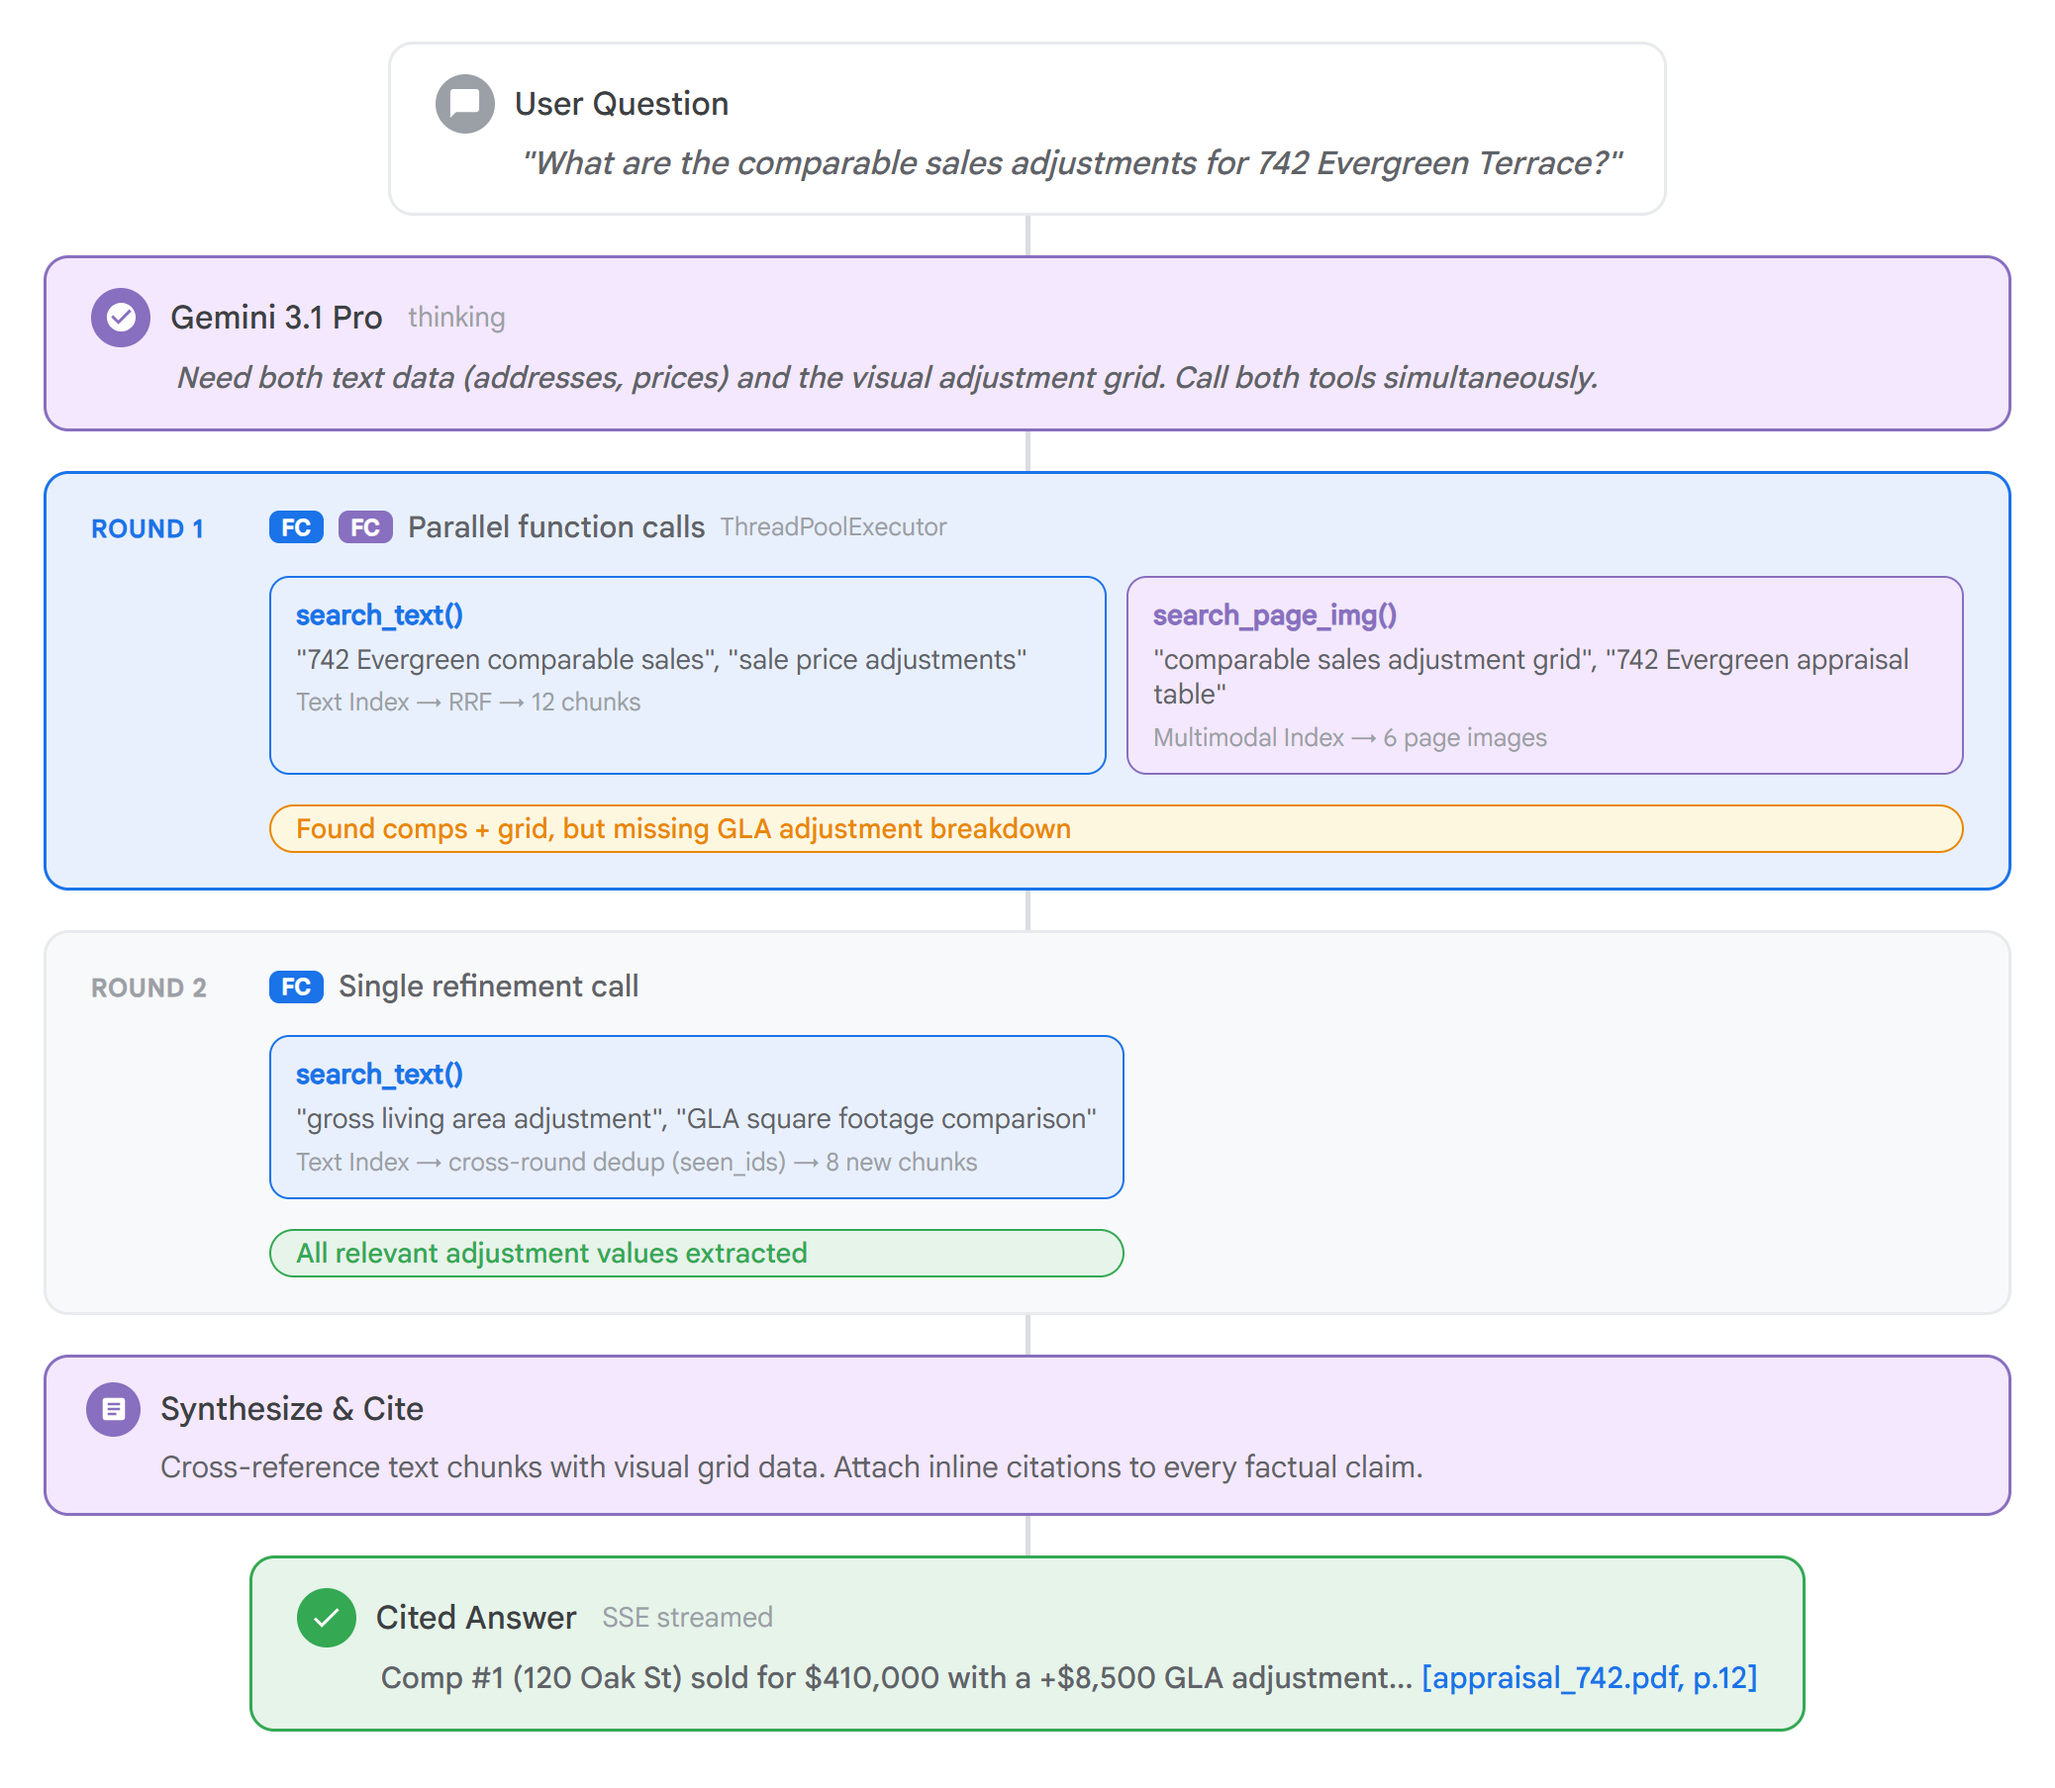
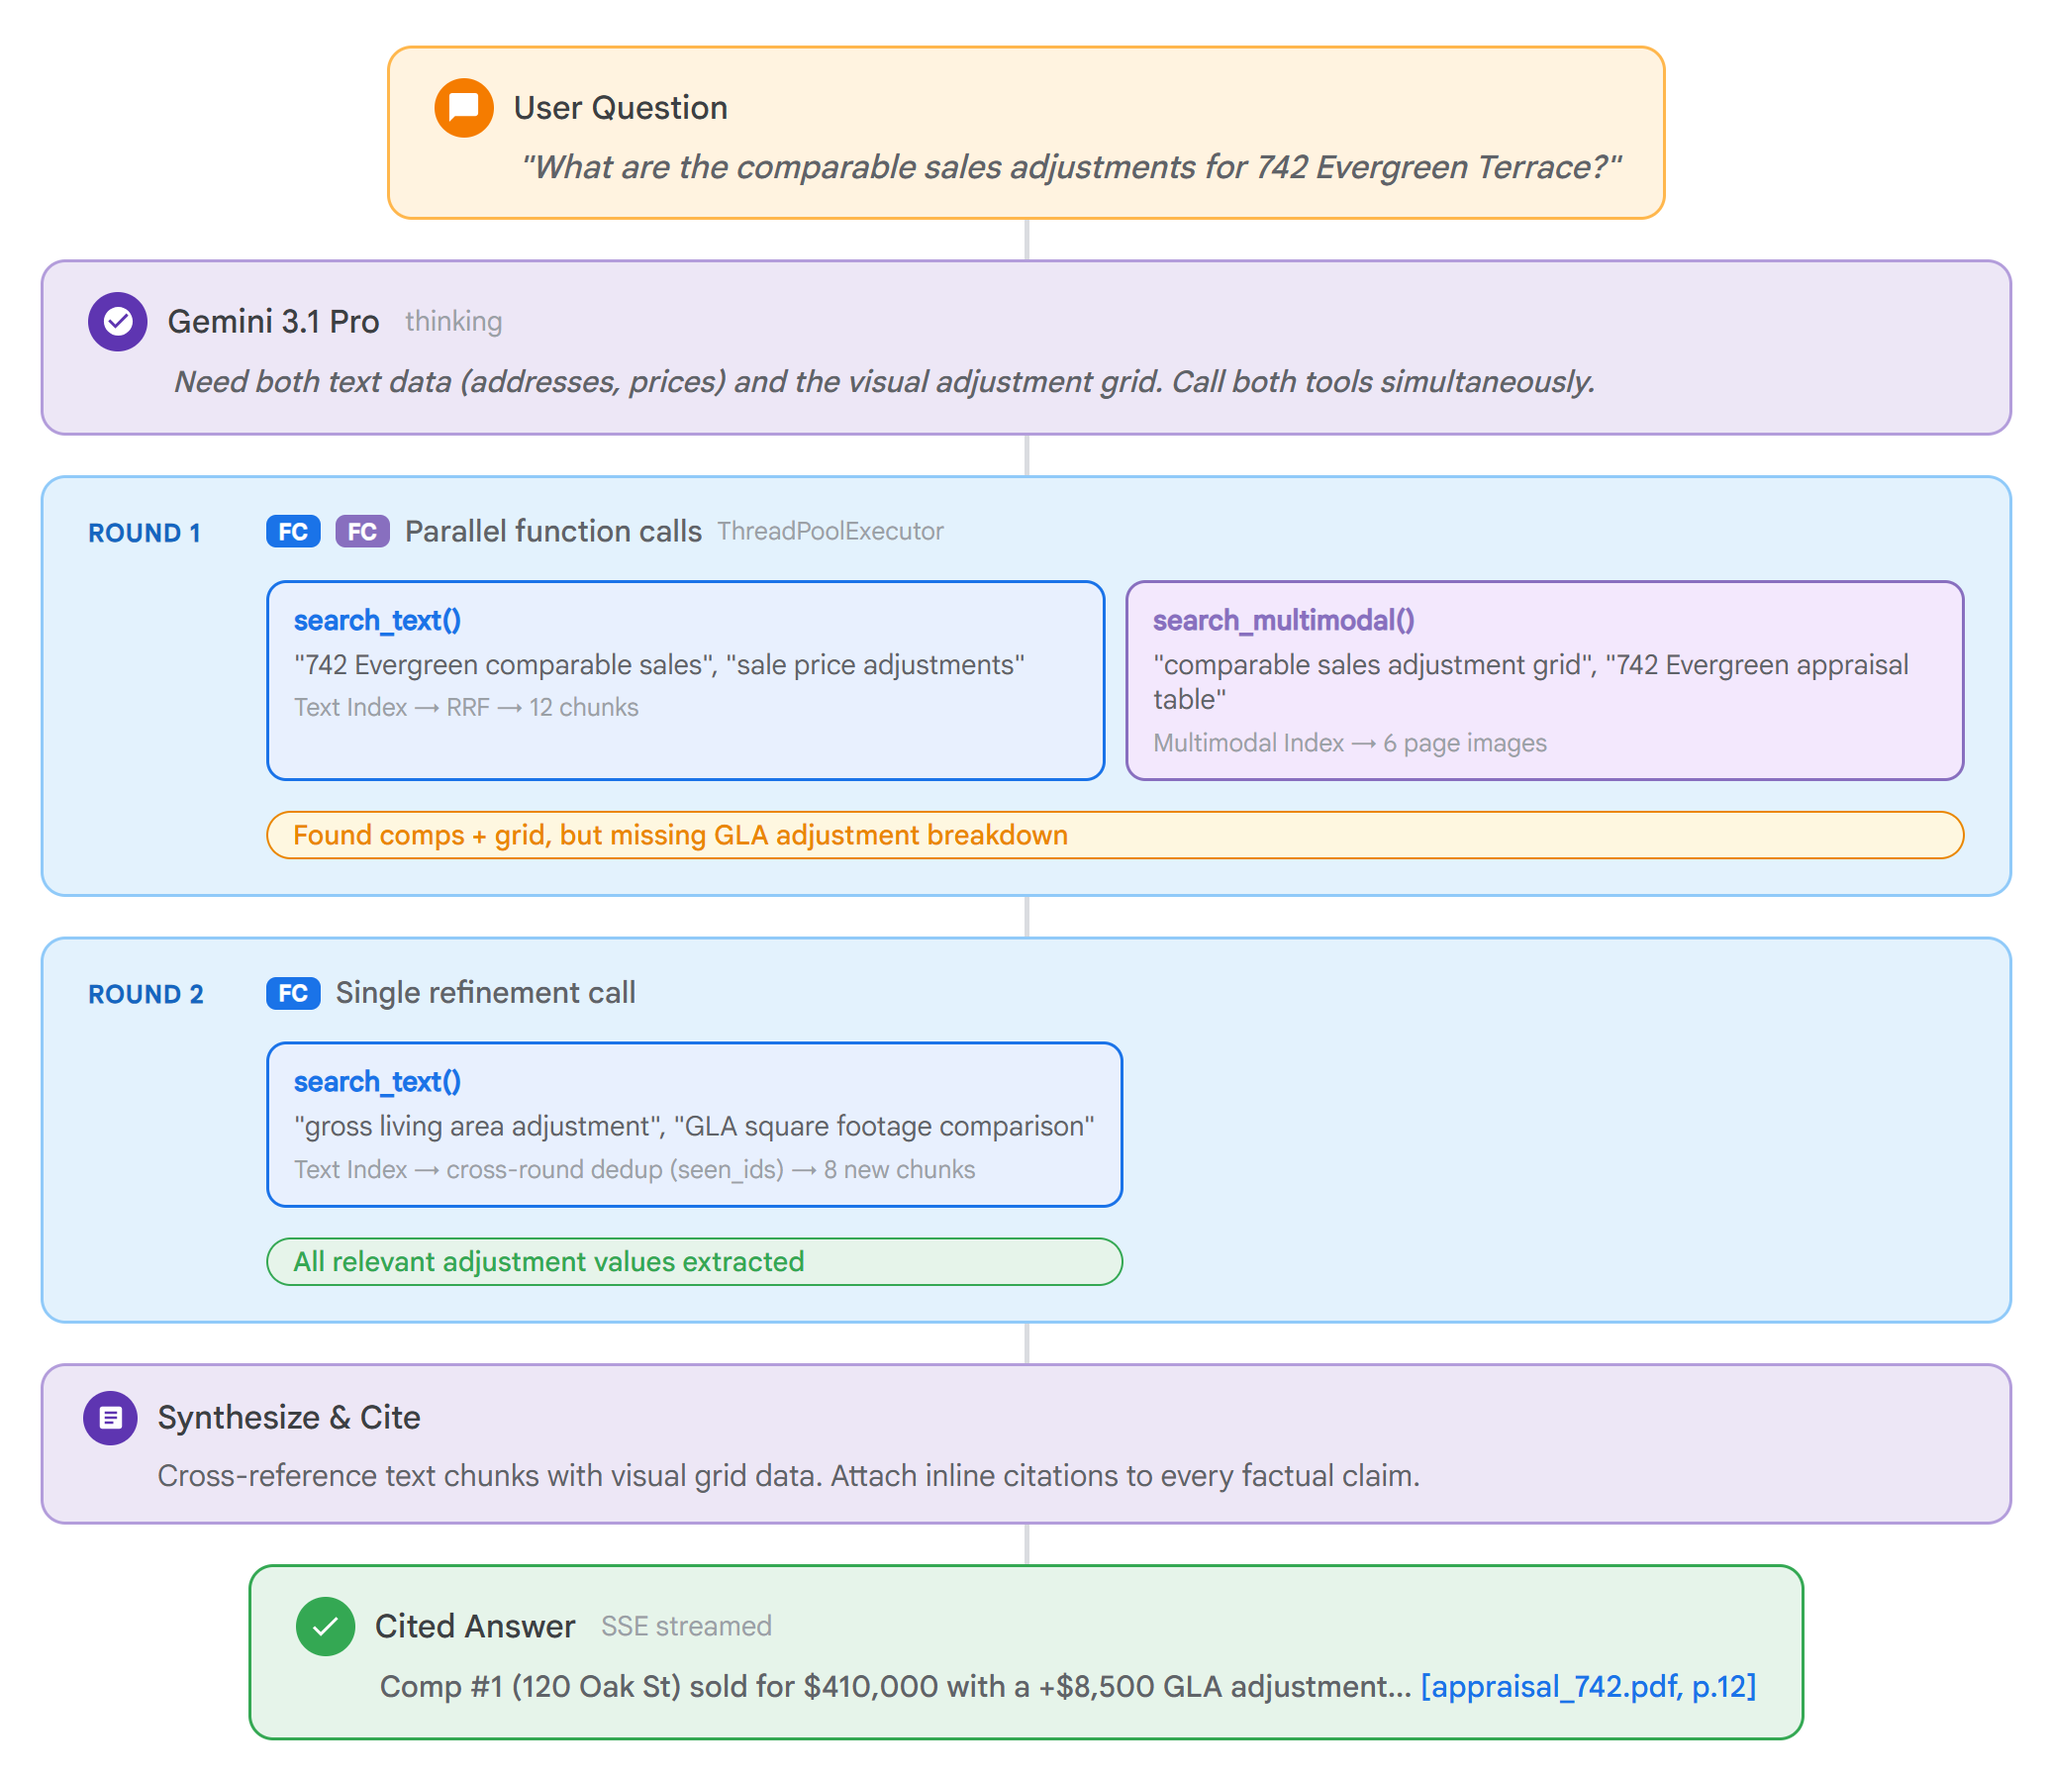
Parallelize signed URL generation and reduce model latency
- Parallelize signed URL generation in text_search, visual_search, and server enrich_citations
- Reduce thinking_level from medium to low for faster response generation
- Reduce default neighbor_count from 15 to 10 for text search
- Add blob.exists() check in pipeline trigger to skip stale GCS notifications
- Move statusDiv hide to finally block in frontend

Changed region(s): [[0.0, 0.0, 0.9889, 0.9972], [0.0, 0.4674, 0.0309, 0.4986]]

diff --git a/frontend/index.html b/frontend/index.html
@@ -1035,6 +1035,7 @@ async function sendMessage() {
   } catch (err) {
     answerDiv.innerHTML = '<em style="color:var(--grey-500)">Connection error. Please try again.</em>';
     thinkingDiv.style.display = 'none';
+  } finally {
     statusDiv.style.display = 'none';
   }
 

diff --git a/api/server.py b/api/server.py
@@ -69,32 +69,44 @@ def _get_agent(session_id: str):
 
 def _enrich_citations(citations: list) -> list:
     """Add pdf_url (signed URL to full PDF#page=N) to every citation."""
+    if not citations:
+        return citations
+
     client = _get_storage()
     bucket = client.bucket(BUCKET_NAME)
-    pdf_url_cache = {}
+
+    unique_pdfs = list({c.get("source_pdf", "") for c in citations} - {""})
+    logger.info(f"Enriching {len(citations)} citations, {len(unique_pdfs)} unique PDFs: {unique_pdfs}")
+
+    def _resolve_pdf_url(pdf_name):
+        for prefix in [PROCESSED_PREFIX, "uploads/"]:
+            blob_path = f"{prefix}{pdf_name}"
+            blob = bucket.blob(blob_path)
+            try:
+                if blob.exists():
+                    url = blob.generate_signed_url(
+                        version="v4", expiration=timedelta(days=7), method="GET",
+                    )
+                    logger.info(f"Signed URL resolved: {pdf_name} -> {blob_path}")
+                    return pdf_name, url
+                else:
+                    logger.debug(f"Blob not found: {blob_path}")
+            except Exception as e:
+                logger.warning(f"Signed URL error for {blob_path}: {e}")
+        logger.warning(f"No blob found for PDF: {pdf_name}")
+        return pdf_name, ""
+
+    from concurrent.futures import ThreadPoolExecutor
+    with ThreadPoolExecutor(max_workers=8) as pool:
+        pdf_url_cache = dict(pool.map(_resolve_pdf_url, unique_pdfs))
+
+    missing = [name for name, url in pdf_url_cache.items() if not url]
+    if missing:
+        logger.warning(f"Citations missing signed URLs: {missing}")
 
     for c in citations:
-        pdf_name = c.get("source_pdf", "")
+        base_url = pdf_url_cache.get(c.get("source_pdf", ""), "")
         page = c.get("page_number", 1)
-
-        if pdf_name not in pdf_url_cache:
-            for prefix in [PROCESSED_PREFIX, "uploads/"]:
-                blob = bucket.blob(f"{prefix}{pdf_name}")
-                if blob.exists():
-                    try:
-                        pdf_url_cache[pdf_name] = blob.generate_signed_url(
-                            version="v4",
-                            expiration=timedelta(days=7),
-                            method="GET",
-                        )
-                    except Exception as e:
-                        logger.warning(f"Signed URL error for {pdf_name}: {e}")
-                        pdf_url_cache[pdf_name] = ""
-                    break
-            else:
-                pdf_url_cache[pdf_name] = ""
-
-        base_url = pdf_url_cache[pdf_name]
         c["pdf_url"] = f"{base_url}#page={page}" if base_url else ""
 
     return citations
@@ -125,9 +137,12 @@ async def chat_stream(request: Request):
 
     async def run_agent():
         try:
+            logger.info(f"Chat started: session={session_id}, message={message[:100]}")
             result = await asyncio.to_thread(agent.chat, message, stream_cb)
+            logger.info(f"Agent returned: {len(result.get('citations', []))} citations, {len(result.get('retrieved_docs', []))} retrieved docs")
             result["citations"] = _enrich_citations(result.get("citations", []))
             result["retrieved_docs"] = _enrich_citations(result.get("retrieved_docs", []))
+            logger.info("Emitting done event")
             await queue.put(("done", result))
         except Exception as e:
             logger.error(f"Agent error: {e}", exc_info=True)
@@ -140,11 +155,13 @@ async def chat_stream(request: Request):
         task = asyncio.create_task(run_agent())
         while True:
             event_type, data = await queue.get()
+            logger.debug(f"SSE event: {event_type}")
             if event_type == "done":
                 yield _sse_event("done", data)
                 break
             yield _sse_event(event_type, data)
         await task
+        logger.info("SSE stream completed")
 
     return StreamingResponse(
         event_generator(),
@@ -357,13 +374,19 @@ async def upload_status():
 @app.post("/pipeline/trigger")
 async def pipeline_trigger(request: Request):
     body = await request.json()
-    bucket = body.get("bucket", "")
+    bucket_name = body.get("bucket", "")
     name = body.get("name", "")
 
     if not name.startswith("uploads/") or not name.lower().endswith(".pdf"):
         return {"status": "skipped", "reason": f"Not a PDF in uploads/: {name}"}
 
-    gcs_uri = f"gs://{bucket}/{name}"
+    # Check blob exists before processing (avoids 404s from stale GCS notifications)
+    client = _get_storage()
+    blob = client.bucket(bucket_name).blob(name)
+    if not blob.exists():
+        return {"status": "skipped", "reason": f"Blob no longer exists (already processed?): {name}"}
+
+    gcs_uri = f"gs://{bucket_name}/{name}"
     logger.info(f"Processing triggered for: {gcs_uri}")
 
     try:

diff --git a/src/text_search.py b/src/text_search.py
@@ -204,7 +204,6 @@ class TextSearchClient:
                 seen_ids.add(dp_id)
 
                 meta = self.metadata_lookup.get(dp_id, {})
-                gcs_uri = meta.get('gcs_uri', '')
                 all_results.append({
                     'datapoint_id': dp_id,
                     'source_pdf': meta.get('source_pdf', 'Unknown'),
@@ -212,11 +211,20 @@ class TextSearchClient:
                     'chunk_type': meta.get('chunk_type', 'Unknown'),
                     'content': meta.get('content', ''),
                     'distance': neighbor.distance,
-                    'signed_url': self.generate_signed_url(gcs_uri),
+                    'signed_url': '',
+                    'gcs_uri': meta.get('gcs_uri', ''),
                     'query_used': query_text,
                 })
 
         all_results.sort(key=lambda x: x['distance'])
+
+        # Generate signed URLs in parallel
+        gcs_uris = [r['gcs_uri'] for r in all_results]
+        with ThreadPoolExecutor(max_workers=8) as pool:
+            urls = list(pool.map(self.generate_signed_url, gcs_uris))
+        for r, url in zip(all_results, urls):
+            r['signed_url'] = url
+
         return all_results
 
     # -- Dense-only fallback --
@@ -265,7 +273,6 @@ class TextSearchClient:
                 seen_ids.add(dp_id)
 
                 meta = self.metadata_lookup.get(dp_id, {})
-                gcs_uri = meta.get('gcs_uri', '')
                 all_results.append({
                     'datapoint_id': dp_id,
                     'source_pdf': meta.get('source_pdf', 'Unknown'),
@@ -273,11 +280,20 @@ class TextSearchClient:
                     'chunk_type': meta.get('chunk_type', 'Unknown'),
                     'content': meta.get('content', ''),
                     'distance': neighbor.distance,
-                    'signed_url': self.generate_signed_url(gcs_uri),
+                    'signed_url': '',
+                    'gcs_uri': meta.get('gcs_uri', ''),
                     'query_used': query_text,
                 })
 
         all_results.sort(key=lambda x: x['distance'])
+
+        # Generate signed URLs in parallel
+        gcs_uris = [r['gcs_uri'] for r in all_results]
+        with ThreadPoolExecutor(max_workers=8) as pool:
+            urls = list(pool.map(self.generate_signed_url, gcs_uris))
+        for r, url in zip(all_results, urls):
+            r['signed_url'] = url
+
         return all_results
 
 

diff --git a/src/visual_search.py b/src/visual_search.py
@@ -155,18 +155,25 @@ class PageSearchClient:
                 seen_ids.add(dp_id)
 
                 meta = self.metadata_lookup.get(dp_id, {})
-                gcs_uri = meta.get('gcs_uri', '')
                 all_results.append({
                     'datapoint_id': dp_id,
                     'source_pdf': meta.get('source_pdf', 'Unknown'),
                     'page_number': meta.get('page_number', 'Unknown'),
-                    'gcs_uri': gcs_uri,
+                    'gcs_uri': meta.get('gcs_uri', ''),
                     'distance': neighbor.distance,
-                    'signed_url': self.generate_signed_url(gcs_uri),
+                    'signed_url': '',
                     'query_used': query_text,
                 })
 
         all_results.sort(key=lambda x: x['distance'])
+
+        # Generate signed URLs in parallel
+        gcs_uris = [r['gcs_uri'] for r in all_results]
+        with ThreadPoolExecutor(max_workers=8) as pool:
+            urls = list(pool.map(self.generate_signed_url, gcs_uris))
+        for r, url in zip(all_results, urls):
+            r['signed_url'] = url
+
         return all_results
 
 

diff --git a/src/llm.py b/src/llm.py
@@ -31,7 +31,7 @@ class GeminiLLM:
         system_instruction: str = None,
         function_declarations: list = None,
         function_handlers: dict = None,
-        thinking_level: str = "medium",
+        thinking_level: str = "low",
         max_function_calling_rounds: int = MAX_FUNCTION_CALLING_ROUNDS,
     ):
         self.model_name = model_name
@@ -231,7 +231,7 @@ class GeminiLLM:
 
             if thinking:
                 first_line = thinking.strip().split('\n')[0][:200]
-                all_thinking += f"\n[Round {round_num + 1}] {first_line}"
+                all_thinking += f"\n[Function call round {round_num + 1}] {first_line}"
 
             if not function_calls:
                 break

diff --git a/src/agent.py b/src/agent.py
@@ -36,7 +36,7 @@ def _get_page_client():
     return _page_client
 
 
-def search_text(queries: list, neighbor_count: int = 15) -> dict:
+def search_text(queries: list, neighbor_count: int = 10) -> dict:
     """Search text chunks from property documents with deduplication across rounds.
 
     Args:
